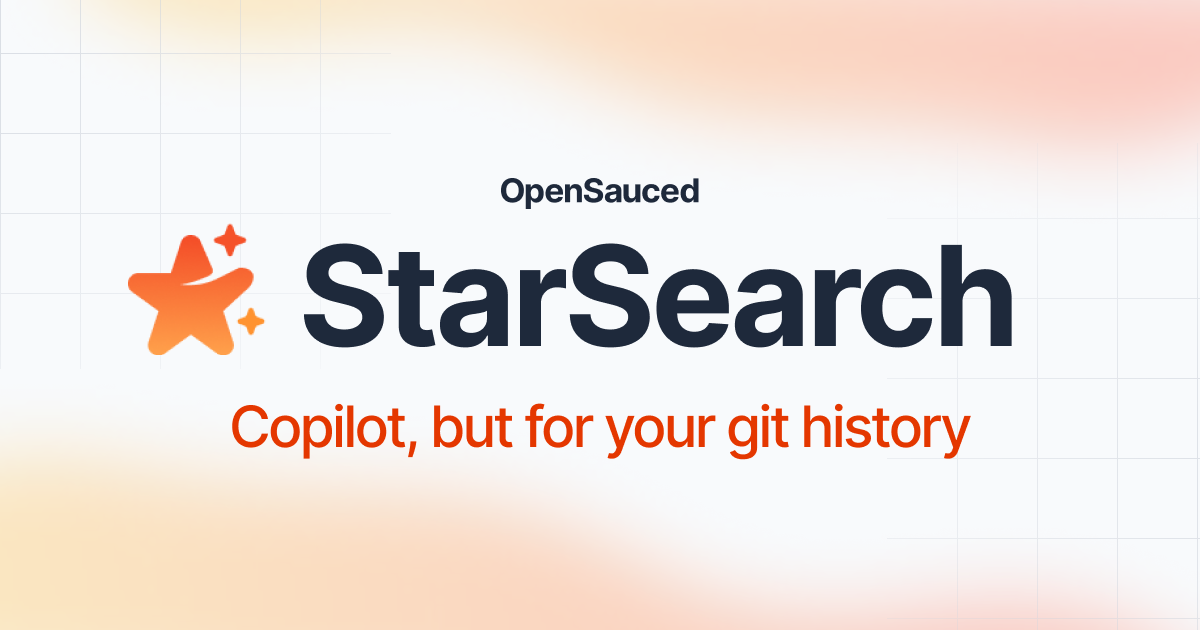
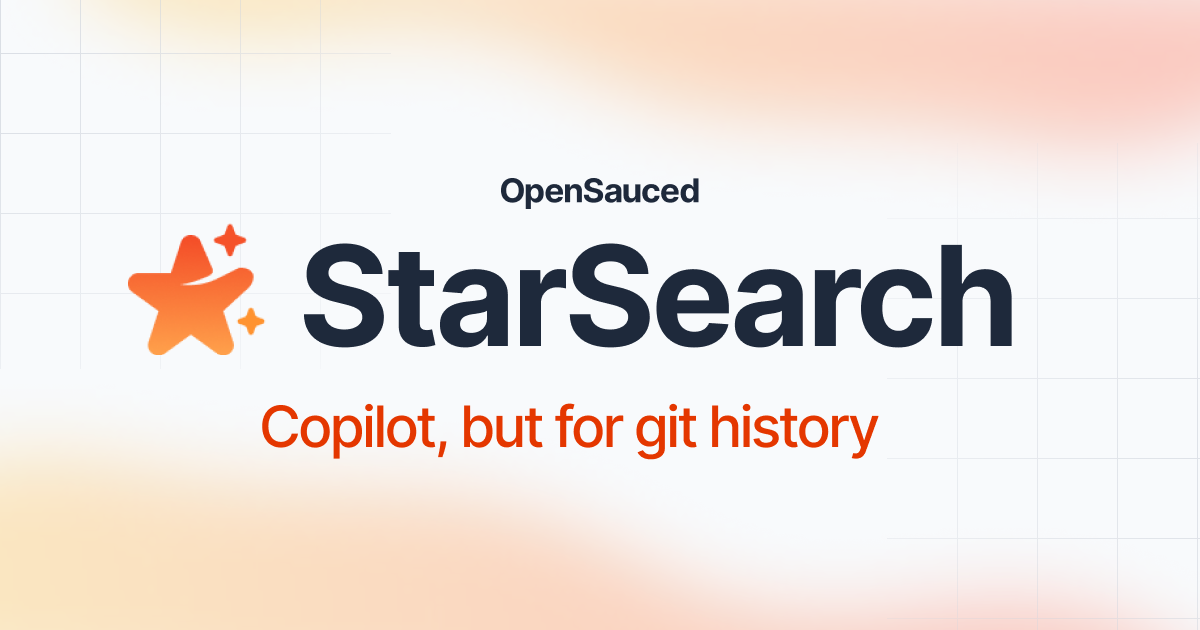
feat: add OG image to StarSearch waitlist (#3245)

Changed region(s): [[0.185, 0.6333, 0.8325, 0.7238]]

diff --git a/pages/star-search/waitlist.tsx b/pages/star-search/waitlist.tsx
@@ -11,6 +11,7 @@ import humanizeNumber from "lib/utils/humanizeNumber";
 import { getAvatarById } from "lib/utils/github";
 import ProfileLayout from "layouts/profile";
 import { useWaitlistCount } from "lib/hooks/api/useWaitlistCount";
+import SEO from "layouts/SEO/SEO";
 
 interface ChatboxProps {
   author: string;
@@ -86,10 +87,16 @@ export const getServerSideProps = async (context: GetServerSidePropsContext) => 
     initialWaitlistCount = waitlistPayload.waitlisted_users;
   }
 
+  const ogImageUrl = `${new URL(
+    "/assets/og-images/star-search-og-image.png",
+    process.env.NEXT_PUBLIC_BASE_URL || "http://localhost:3000"
+  )}`;
+
   return {
     props: {
       alreadyOnWaitlist,
       initialWaitlistCount,
+      ogImageUrl,
     },
   };
 };
@@ -97,11 +104,13 @@ export const getServerSideProps = async (context: GetServerSidePropsContext) => 
 interface StarSearchWaitListPageProps {
   alreadyOnWaitlist: boolean;
   initialWaitlistCount: number;
+  ogImageUrl: string;
 }
 
 export default function StarSearchWaitListPage({
   alreadyOnWaitlist,
   initialWaitlistCount,
+  ogImageUrl,
 }: StarSearchWaitListPageProps) {
   const { sessionToken, signIn } = useSupabaseAuth();
   const [isWaitlisted, setIsWaitlisted] = useState<boolean>(alreadyOnWaitlist);
@@ -131,84 +140,94 @@ export default function StarSearchWaitListPage({
   }
 
   return (
-    <ProfileLayout>
-      <div className="flex flex-col items-center gap-4 px-2 mb-8 sm:pt-8 md:pt-0 lg:w-99">
-        <div className="flex gap-2 items-center">
-          <Image src="/assets/star-search-logo.svg" alt="" width={40} height={40} />
-          <h1 className="text-3xl lg:text-4xl font-bold bg-clip-text text-transparent bg-gradient-to-r from-sauced-orange to-amber-400">
-            StarSearch
-          </h1>
-        </div>
-        <p className="font-semibold text-5xl text-center tracking-tight text-balance">Copilot, but for git history</p>
-        <p className="text-center">Ask anything, get AI powered insights based on contributor data</p>
-        <div className="grid place-content-center h-16">
-          {sessionToken && isWaitlisted && waitlistCount ? (
-            <>
-              {alreadyOnWaitlist ? (
-                <p className="grid place-content-center">
-                  You&apos;re already on the waitlist along with {humanizeNumber(waitlistCount)} other people.
-                </p>
-              ) : (
-                <p className="grid place-content-center">
-                  You&apos;re in along with {humanizeNumber(waitlistCount)} other people on the Star Search waitlist!
-                </p>
-              )}
-            </>
-          ) : (
-            <>
-              {autoAdd ? null : (
-                <>
-                  {sessionToken ? (
-                    <form
-                      onSubmit={(event) => {
-                        event.preventDefault();
-                        joinWaitlist();
-                      }}
-                    >
-                      <Button variant="primary" className="flex gap-2 md:mt-6">
-                        <span>Join the Waitlist</span>
+    <>
+      <SEO
+        title="OpenSauced Insights - StarSearch"
+        description="Copilot, but for git history"
+        image={ogImageUrl}
+        twitterCard="summary_large_image"
+      />
+      <ProfileLayout>
+        <div className="flex flex-col items-center gap-4 px-2 mb-8 sm:pt-8 md:pt-0 lg:w-99">
+          <div className="flex gap-2 items-center">
+            <Image src="/assets/star-search-logo.svg" alt="" width={40} height={40} />
+            <h1 className="text-3xl lg:text-4xl font-bold bg-clip-text text-transparent bg-gradient-to-r from-sauced-orange to-amber-400">
+              StarSearch
+            </h1>
+          </div>
+          <p className="font-semibold text-5xl text-center tracking-tight text-balance">Copilot, but for git history</p>
+          <p className="text-center">Ask anything, get AI powered insights based on contributor data</p>
+          <div className="grid place-content-center h-16">
+            {sessionToken && isWaitlisted && waitlistCount ? (
+              <>
+                {alreadyOnWaitlist ? (
+                  <p className="grid place-content-center">
+                    You&apos;re already on the waitlist along with {humanizeNumber(waitlistCount)} other people.
+                  </p>
+                ) : (
+                  <p className="grid place-content-center">
+                    You&apos;re in along with {humanizeNumber(waitlistCount)} other people on the StarSearch waitlist!
+                  </p>
+                )}
+              </>
+            ) : (
+              <>
+                {autoAdd ? null : (
+                  <>
+                    {sessionToken ? (
+                      <form
+                        onSubmit={(event) => {
+                          event.preventDefault();
+                          joinWaitlist();
+                        }}
+                      >
+                        <Button variant="primary" className="flex gap-2 md:mt-6">
+                          <span>Join the Waitlist</span>
+                          <ArrowRightIcon />
+                        </Button>
+                      </form>
+                    ) : (
+                      <Button
+                        variant="primary"
+                        onClick={async () => {
+                          const params = new URLSearchParams();
+                          params.set("redirectedFrom", "/star-search");
+
+                          await signIn({
+                            provider: "github",
+                            options: {
+                              redirectTo: `${new URL("/star-search/waitlist?add=true", window.location.href)}`,
+                            },
+                          });
+                        }}
+                        className="flex gap-2 md:mt-6"
+                      >
+                        <span>Sign up to Join the Waitlist</span>
                         <ArrowRightIcon />
                       </Button>
-                    </form>
-                  ) : (
-                    <Button
-                      variant="primary"
-                      onClick={async () => {
-                        const params = new URLSearchParams();
-                        params.set("redirectedFrom", "/star-search");
-
-                        await signIn({
-                          provider: "github",
-                          options: { redirectTo: `${new URL("/star-search/waitlist?add=true", window.location.href)}` },
-                        });
-                      }}
-                      className="flex gap-2 md:mt-6"
-                    >
-                      <span>Sign up to Join the Waitlist</span>
-                      <ArrowRightIcon />
-                    </Button>
-                  )}
-                </>
-              )}
-            </>
-          )}
-        </div>
-        <ul className="place-content-center px-2 lg:bg-[url(../public/assets/images/waitlist-background.png)] lg:bg-no-repeat lg:bg-center lg:bg-cover mt-4 md:mt-8 flex flex-col gap-8 w-full">
-          <li className="flex gap-4 text-slate-600">
-            <Chatbox author="You" content="Who worked on React Server Components recently?" />
-          </li>
-          <li className="flex gap-4 text-slate-600 place-self-end">
-            <Chatbox
-              author="StarSearch"
-              content={`Based on the provided GitHub activities and contributions data, the following users have recently worked on React Server Components:
+                    )}
+                  </>
+                )}
+              </>
+            )}
+          </div>
+          <ul className="place-content-center px-2 lg:bg-[url(../public/assets/images/waitlist-background.png)] lg:bg-no-repeat lg:bg-center lg:bg-cover mt-4 md:mt-8 flex flex-col gap-8 w-full">
+            <li className="flex gap-4 text-slate-600">
+              <Chatbox author="You" content="Who worked on React Server Components recently?" />
+            </li>
+            <li className="flex gap-4 text-slate-600 place-self-end">
+              <Chatbox
+                author="StarSearch"
+                content={`Based on the provided GitHub activities and contributions data, the following users have recently worked on React Server Components:
 
 1. **@brunnolou:** Submitted a pull request titled "Feature/react server components" to the danswer-ai/danswer repository, including changes related to adding react server components with the aim of enhancing the functionality of the project.
 1. **@sebmarkbage:** Implemented the concept of a DEV-only "owner" for Server Components in the React repository through a pull request titled "Track Owner for Server Components". The owner concept is added for parity with DevTools and could be used to wire up future owner-based stacks.
 1. **@EvanBacon:** Submitted a pull request to the facebook/react-native repository titled "mark all of react-native as client boundary for React Server Components". The pull request marks all of react-native as a client boundary for React Server Components, allowing for importing react-native in a react-server environment for React Server Components support.`}
-            />
-          </li>
-        </ul>
-      </div>
-    </ProfileLayout>
+              />
+            </li>
+          </ul>
+        </div>
+      </ProfileLayout>
+    </>
   );
 }

diff --git a/pages/star-search/index.tsx b/pages/star-search/index.tsx
@@ -210,7 +210,7 @@ export default function StarSearchPage({ userId, bearerToken, ogImageUrl }: Star
     <>
       <SEO
         title="OpenSauced Insights - StarSearch"
-        description="Copilot, but for your git history"
+        description="Copilot, but for git history"
         image={ogImageUrl}
         twitterCard="summary_large_image"
       />
